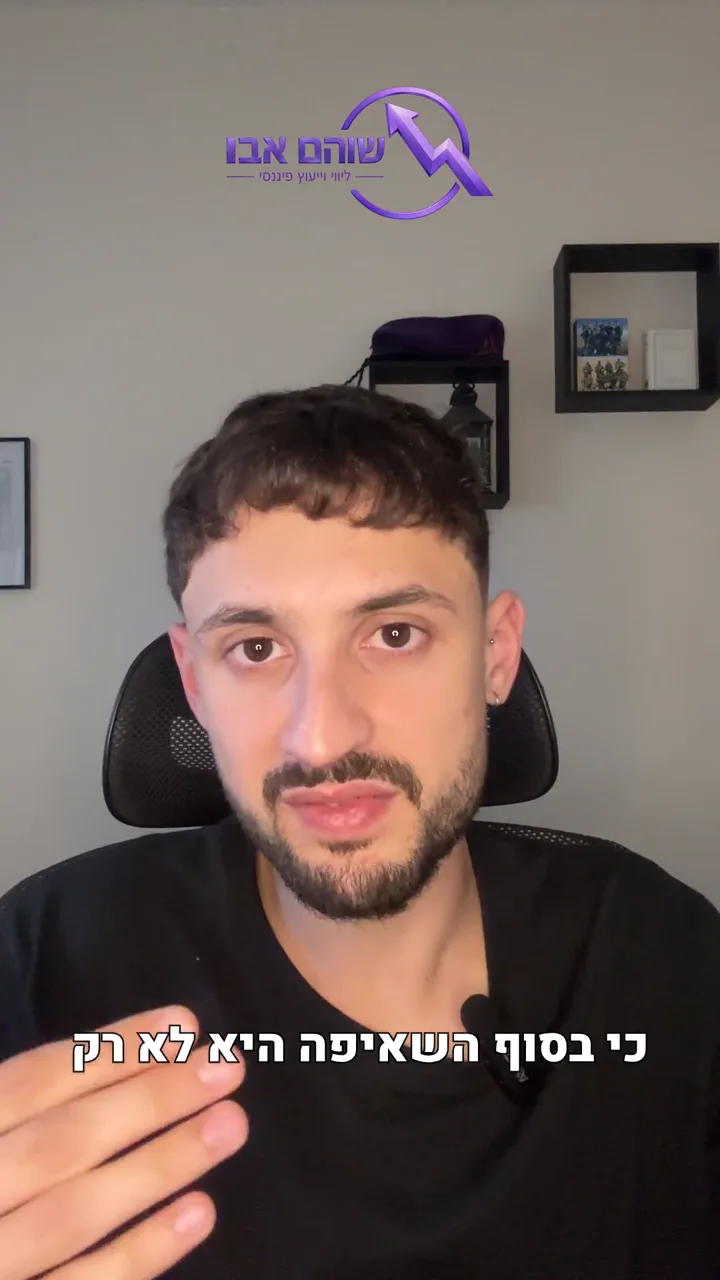
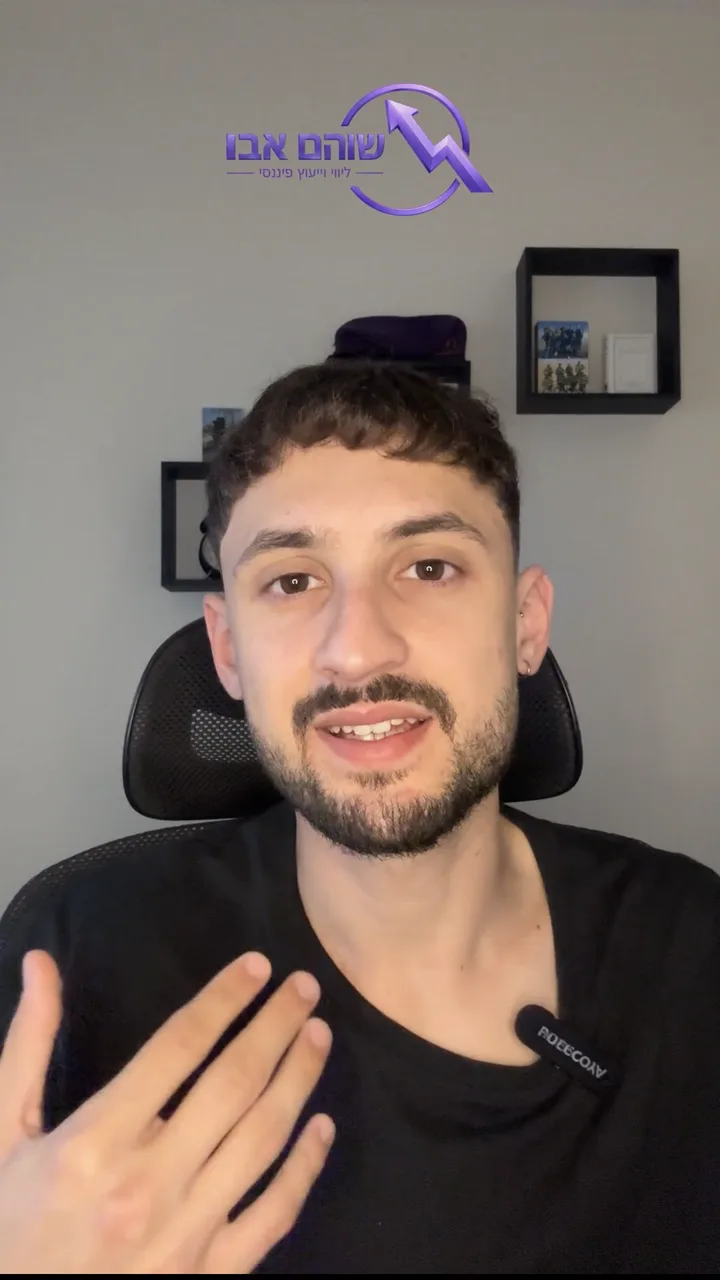
תמונת הכיסוי של הסרטון הוחלפה לזו ששוהם בחר
עד עכשיו תמונת הפתיחה נגזרה מפריים מתוך הסרטון, ולכן היא
נשאה גם כתובית צרובה באמצע משפט. הקובץ שנבחר נקי ממנה, והפנים
בו גבוהות יותר בפריים · כך כפתור הפליי, שיושב במרכז המסגרת,
כבר לא נופל על הפה.

היחס שלה 0.5622 מול 0.5625 של הסרטון, כלומר אותו 9:16 · היא
הוקטנה ל-720 על 1280, בדיוק כמו הקודמת, בלי חיתוך ובלי
מתיחה. 36 קילו ב-webp.

חותמת המטמון עודכנה לפי sha256 של הקובץ החדש.

בדיקות: החבילה המלאה 47 מתוך 47, אפס כשלים.

Claude-Session: https://claude.ai/code/session_01XrM26kY25qmnopVjeTJwqL

diff --git a/index.html b/index.html
@@ -3964,7 +3964,7 @@ footer {
   <div class="iv-frame" id="ivFrame">
     <div class="iv-inner">
       <video id="introVideo" class="iv-media"
-             poster="assets/intro-poster.webp?v=6202dc54"
+             poster="assets/intro-poster.webp?v=54a1c413"
              width="1080" height="1920"
              playsinline preload="none"
              aria-label="סרטון היכרות עם שוהם אבו, חצי דקה, בעברית">
